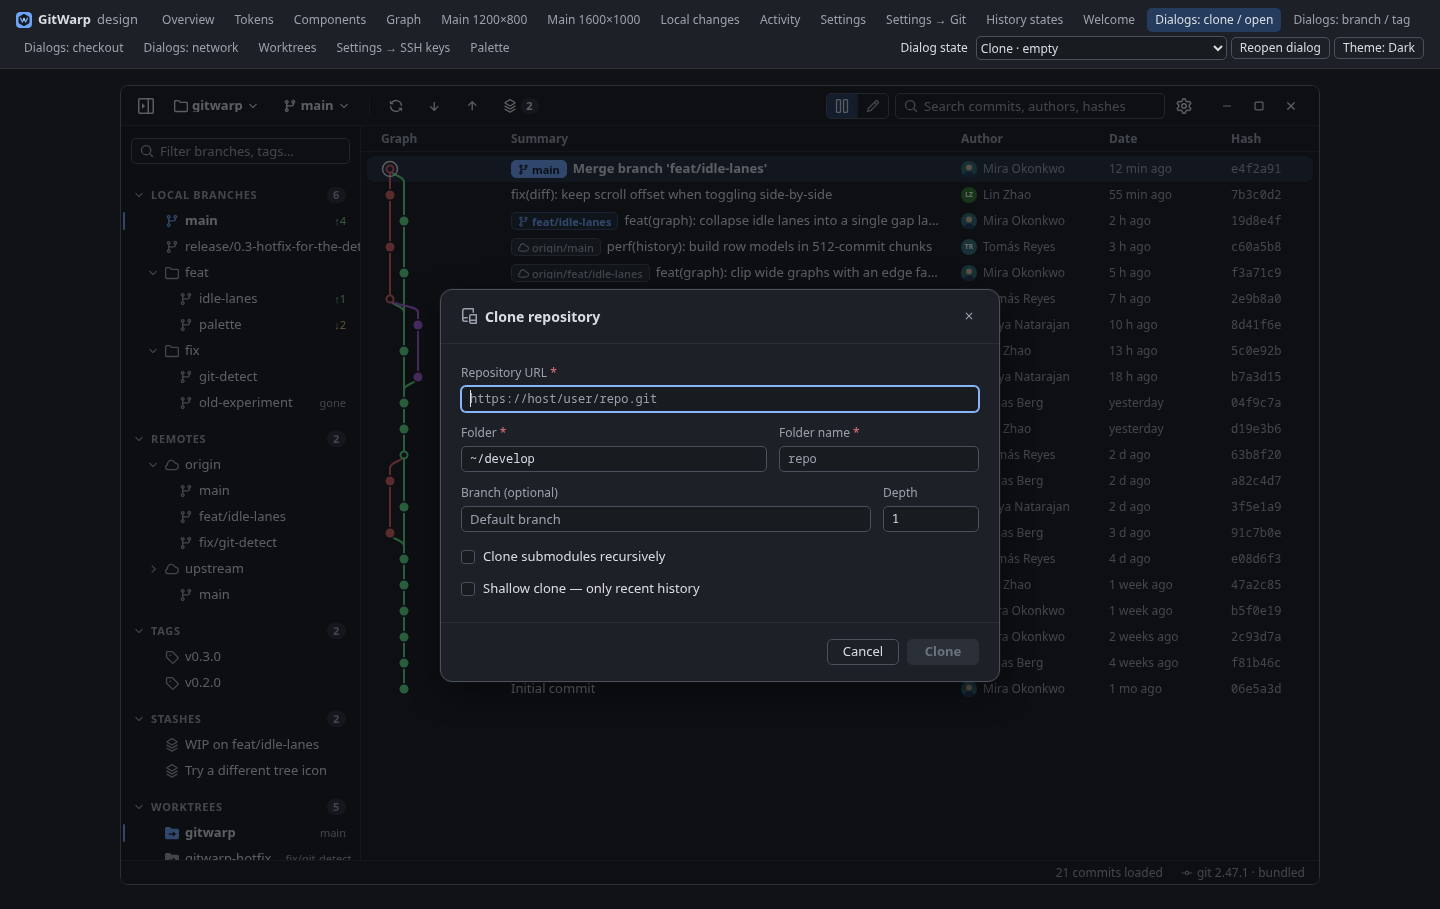
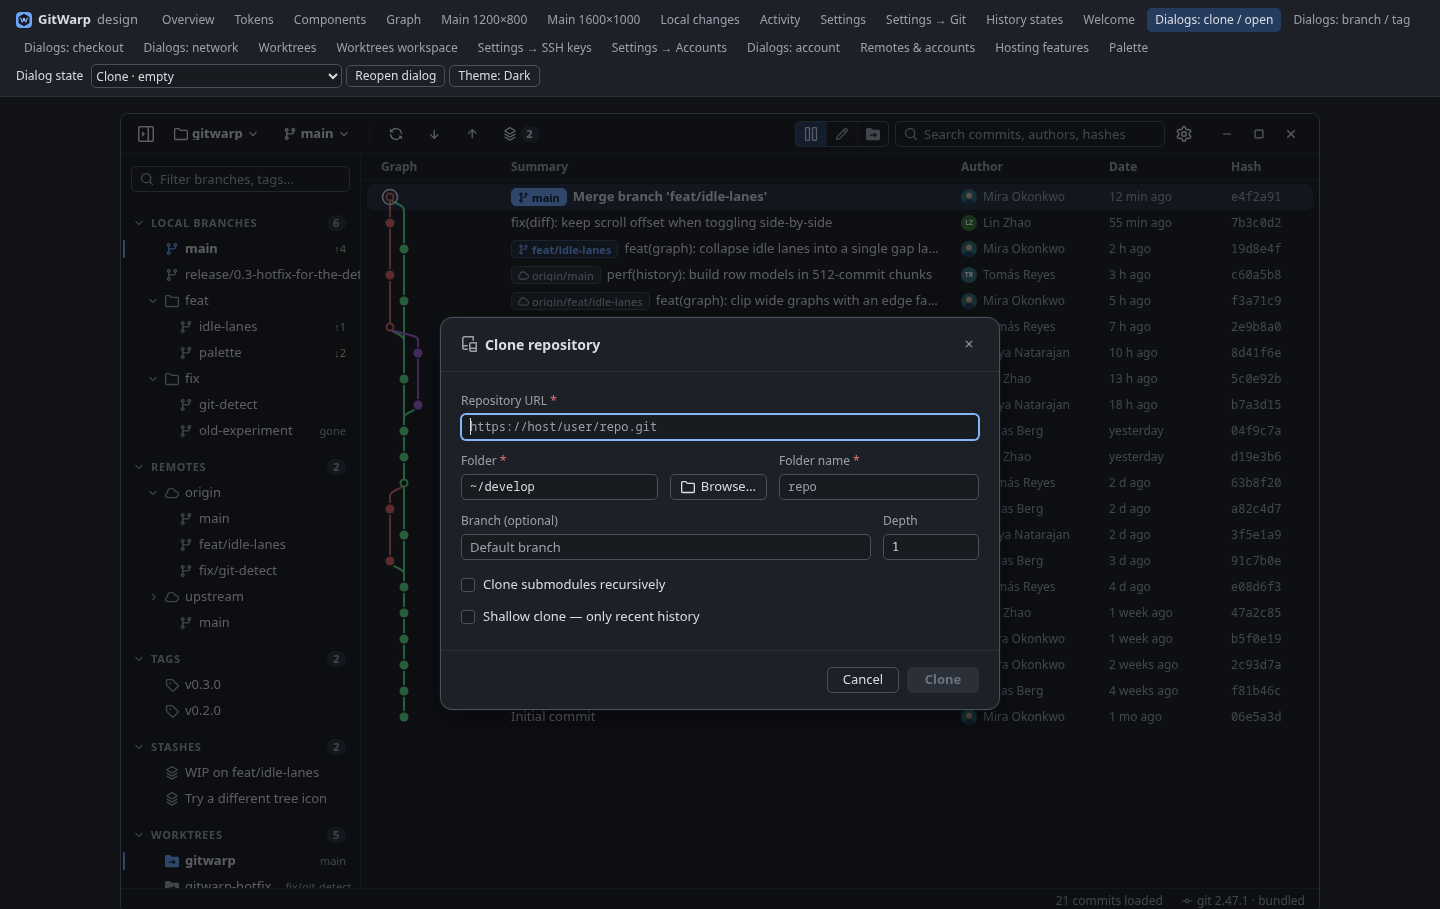
Sync the design snapshot with the OpenDesign project
Brings in the Browse button of the Clone dialog and the Show activity
statistics setting, with fresh screenshots of the affected pages.

diff --git a/docs/design/prototype/welcome.html b/docs/design/prototype/welcome.html
@@ -11,6 +11,7 @@
   .wl aside { padding: 28px 24px; border-right: 1px solid var(--border); background: var(--surface); display: flex; flex-direction: column; gap: 8px; }
   .logo { display: flex; align-items: center; gap: 10px; font-size: var(--fs-xl); font-weight: 700; margin-bottom: 4px; }
   .act { display: flex; align-items: center; gap: 10px; height: 36px; padding: 0 12px; border: 1px solid var(--border-strong); border-radius: var(--r-md); background: var(--bg); cursor: default; width: 100%; text-align: left; }
+  .wl aside > .od-fill { flex: 1 1 0; }
   .act:hover { background: var(--hover); } .act .kbd { margin-left: auto; }
   .wl main { padding: 20px 24px; display: flex; flex-direction: column; min-height: 0; gap: 12px; }
   .recent { overflow: auto; flex: 1; min-height: 0; border: 1px solid var(--border); border-radius: var(--r-md); background: var(--bg); outline: none; }
@@ -38,11 +39,13 @@
     <div class="wl"><aside><div class="logo">${G.logo(26)}GitWarp</div><div class="muted" style="margin-bottom:16px">A fast, keyboard-first git client.</div>
       <button class="act" id="open" data-tip="Open an existing repository">${ic('folder', 16)}Open repository…<span class="kbd">Ctrl O</span></button>
       <button class="act" id="clone" data-tip="Clone a repository from a URL">${ic('clone', 16)}Clone repository…<span class="kbd">Ctrl Shift O</span></button>
-      <button class="act" id="init" data-tip="Create a new repository">${ic('init', 16)}Init new repository…<span class="kbd">Ctrl N</span></button></aside>
+      <button class="act" id="init" data-tip="Create a new repository">${ic('init', 16)}Init new repository…<span class="kbd">Ctrl N</span></button>
+      <span class="od-fill"></span>
+      <button class="act" id="settings" data-tip="Open Settings">${ic('gear', 16)}Settings<span class="kbd">Ctrl ,</span></button></aside>
     <main><div class="od-row"><h2 style="margin:0;font-size:var(--fs-lg)" class="od-fill">Recent repositories</h2><label class="input-wrap" style="width:240px">${ic('search', 14)}<input class="input" id="flt" placeholder="Filter recent…" aria-label="Filter recent repositories"></label></div>
       <div class="recent" id="recent" role="listbox" tabindex="0" aria-label="Recent repositories"></div>
       <div class="muted" style="font-size:12px"><span class="kbd">↑</span> <span class="kbd">↓</span> select · <span class="kbd">Enter</span> open · <span class="kbd">Del</span> remove from list</div></main></div>
-    <footer class="statusbar"><span class="od-fill"></span><span class="sb-btn" id="gitlabel"></span></footer></div>`);
+    <footer class="statusbar"><span class="sb-btn" id="appver" data-tip="GitWarp version">GitWarp v0.3.0</span><span class="od-fill"></span><span class="sb-btn" id="gitlabel"></span></footer></div>`);
   stage.firstChild.appendChild(win);
   G.initTips(win);
   const list = win.querySelector('#recent'); let sel_ = 0, rec = R.slice();
@@ -74,6 +77,10 @@
   document.getElementById('scn').addEventListener('change', scn);
   win.querySelector('#clone').onclick = () => D.repo(win, { tab: 'clone' });
   win.querySelector('#init').onclick = () => D.initRepo(win, {});
+  /* Settings lives on its own design page; the main window opens it as a modal, the welcome screen navigates to it */
+  const openSettings = () => { location.href = 'settings-general.html'; };
+  win.querySelector('#settings').onclick = openSettings;
+  addEventListener('keydown', (e) => { if (e.ctrlKey && !e.shiftKey && e.key === ',') { e.preventDefault(); openSettings(); } });
   win.querySelector('#open').onclick = () => D.repo(win, { tab: 'open' });
   addEventListener('keydown', (e) => { if (!e.ctrlKey || e.shiftKey) return; if (e.key.toLowerCase() === 'n') { e.preventDefault(); D.initRepo(win, {}); } });
   draw(); gl();

diff --git a/docs/design/prototype/dialogs.js b/docs/design/prototype/dialogs.js
@@ -187,7 +187,7 @@
     const f = st.failed;
     return { title: 'Clone repository', icon: 'clone', width: 560, body: `<div class="od-stack" style="--od-gap:12px">
       ${D.f('Repository URL', 'url', D.in('url', st.url, 'https://host/user/repo.git', { err: urlErr, mono: 1 }) + (urlErr ? `<div class="field-error" id="url-e">${ic('err', 12)}<span>${esc(urlErr)}</span></div>` : ''), { req: 1, help: proto ? `<span class="od-row" style="gap:6px;color:var(--muted)">${ic(proto[0], 12)}${proto[1]}</span>` : '' })}
-      <div class="od-row" style="align-items:flex-start;gap:12px"><div style="flex:1;min-width:0">${D.f('Folder', 'dest', D.in('dest', st.dest, '~/develop', { mono: 1 }), { req: 1 })}</div><div style="width:200px">${D.f('Folder name', 'name', D.in('name', name, 'repo', { err: nameErr, mono: 1 }), { req: 1, err: nameErr })}</div></div>
+      <div class="od-row" style="align-items:flex-start;gap:12px"><div style="flex:1;min-width:0">${D.f('Folder', 'dest', `<div class="od-row">${D.in('dest', st.dest, '~/develop', { mono: 1 })}${D.btn('Browse…', { act: 'browse', icon: 'folder' })}</div>`, { req: 1 })}</div><div style="width:200px">${D.f('Folder name', 'name', D.in('name', name, 'repo', { err: nameErr, mono: 1 }), { req: 1, err: nameErr })}</div></div>
       <div class="od-row" style="align-items:flex-start;gap:12px"><div style="flex:1;min-width:0">${D.f('Branch (optional)', 'branch', D.in('branch', st.branch, 'Default branch'))}</div><div style="width:96px">${D.f('Depth', 'depth', D.in('depth', st.depth, '1', { err: depthBad, mono: 1 }), { err: depthBad ? 'Use a number above 0.' : '' })}</div></div>
       <div class="od-stack" style="--od-gap:6px">${D.chk('recurse', st.recurse, 'Clone submodules recursively')}${D.chk('shallow', st.shallow, 'Shallow clone — only recent history')}</div></div>
       ${f ? D.banner(f.cancelled ? 'info' : 'error', f.cancelled ? 'Clone cancelled' : 'Clone failed', esc(f.text).replace(/\n/g, '<br>')) : ''}`,
@@ -251,6 +251,7 @@
       st, width: 560, view: cloneView, busy: (s) => s.phase === 'cloning',
       onInput: (s, k) => { if (k === 'name') s.nameEdited = true; },
       actions: {
+        browse: (s, api) => { api.toast('Native-style folder picker opens here (custom-drawn dialog in GPUI)', 'info'); return false; },
         clone: (s, api) => { s.phase = 'cloning'; s.pct = null; s.failed = null; startClone(api); },
         cancelClone: (s, api) => { s.cancelling = true; startClone(api); },
         clearFail: (s) => { s.failed = null; },

diff --git a/docs/design/prototype/settings-general.html b/docs/design/prototype/settings-general.html
@@ -33,6 +33,9 @@
         S.row('Fetch remotes automatically', 'Keeps ahead/behind counts and the graph current without touching your working tree.', S.sw('fetch-auto', fetchOn, 'Fetch remotes automatically')),
         S.row('Interval', fetchOn ? 'Fetch pauses while the window is in the background.' : 'Automatic fetch is off.', S.sel('fetch-int', S.get('fetch-int', '5'), EVERY, 'Fetch interval', !fetchOn), '', !fetchOn)
       ])}
+      ${S.group('Commit activity', [
+        S.row('Show activity statistics', 'The commit heatmap on the Welcome screen and above History. Hiding it does not delete any data.', S.sw('show-activity', S.get('show-activity', true), 'Show activity statistics'))
+      ])}
       ${S.group('Ask before…', [
         S.row('Force push', 'Rewrites remote history; always shows which commits will be lost.', S.chk('cf-force', S.get('cf-force', true), 'Confirm')),
         S.row('Discarding changes', 'Discarded edits cannot be recovered.', S.chk('cf-discard', S.get('cf-discard', true), 'Confirm')),

diff --git a/docs/design/prototype/activity.js b/docs/design/prototype/activity.js
@@ -198,7 +198,12 @@
     pageHost.innerHTML = '<div class="winwrap"></div>';
     document.getElementById('act-cap').innerHTML = S.variant === 'A' ? CAP_A : CAP_B;
     (S.variant === 'A' ? variantA : variantB)(pageHost.firstChild);
+    /* Settings → Appearance → "Show activity statistics" (stored by settings.js as gl-set-show-activity; default on).
+       Off hides the Welcome card / History strip; the data and the Placement/State controls of this page stay. */
+    let on = true; try { on = JSON.parse(localStorage.getItem('gl-set-show-activity') ?? 'true') !== false; } catch (e) {}
+    if (!on) pageHost.querySelectorAll('.act-strip, .wact-sec, .dayfilter').forEach((n) => { n.hidden = true; n.style.display = 'none'; });
   }
+  addEventListener('storage', (e) => { if (e.key === 'gl-set-show-activity') render(); });
 
   /* ---------- the strip/card body shared by A and B per state ---------- */
   function body(o) {
